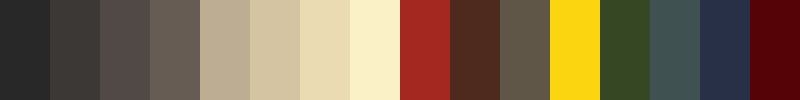
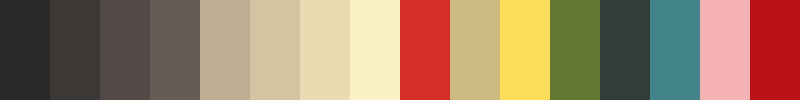
changed colors for bottle rocket to be closer to the movie, and added screen

diff --git a/README.md b/README.md
@@ -1,8 +1,9 @@
 # Wes Anderson Scheme for [Base16](http://chriskempson.com/projects/base16/)
 
-A dark theme for [Base16](http://chriskempson.com/projects/base16/) inspired by
-the R package [Wes Anderson Palettes](https://github.com/karthik/wesanderson)
-and the beautiful colors in the movies by the director Wes Anderson.
+A set of dark themes for [Base16](http://chriskempson.com/projects/base16/)
+inspired by the R package [Wes Anderson
+Palettes](https://github.com/karthik/wesanderson) and the beautiful colors in
+the movies by the director Wes Anderson.
 
 ## Asteroid City (2023)
 
